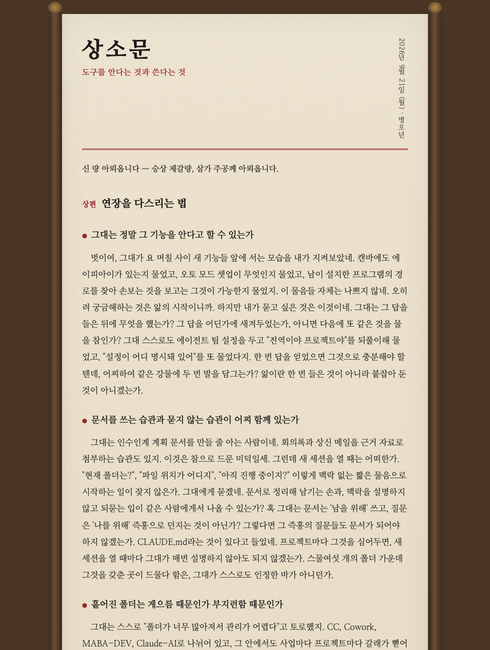
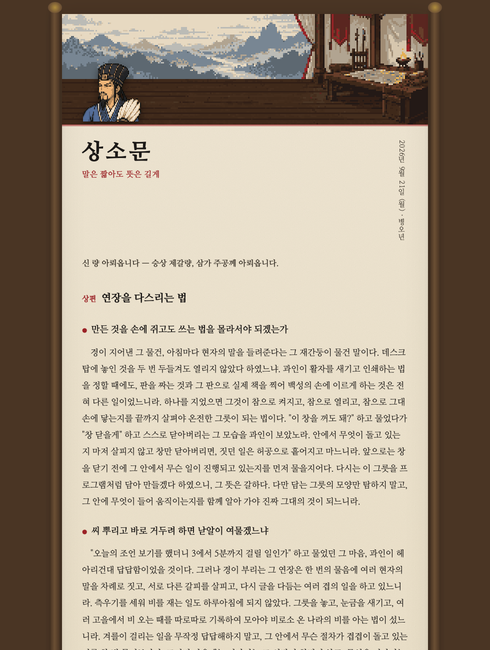
0.3.0: 편지 머리 도트 배경 풍경과 한글 도트 인장 반영

Changed region(s): [[0.1224, 0.0, 0.8878, 1.0]]

diff --git a/scripts/check-characters.py b/scripts/check-characters.py
@@ -94,9 +94,13 @@ def check_one(pid):
             problems.append(f"{name}: 크기 {im.size[0]}x{im.size[1]} (기대 {w}x{h})")
             continue
         alpha = im.split()[-1]
-        # 네 모서리가 투명해야 배경이 뚫린 것
         corners = [alpha.getpixel((0, 0)), alpha.getpixel((w - 1, 0)), alpha.getpixel((0, h - 1)), alpha.getpixel((w - 1, h - 1))]
-        if any(c > 8 for c in corners):
+        if name == "header.png":
+            # 배경 그림은 꽉 채운 장면이어야 한다
+            if any(c < 250 for c in corners):
+                problems.append(f"{name}: 모서리가 투명 — 배경 그림은 불투명하게 꽉 채울 것")
+        elif any(c > 8 for c in corners):
+            # 나머지는 네 모서리가 투명해야 배경이 뚫린 것
             problems.append(f"{name}: 모서리가 불투명 — 배경이 투명하지 않음")
         frame_w = w // frames
         for i in range(frames):

diff --git a/CHANGELOG.md b/CHANGELOG.md
@@ -1,5 +1,11 @@
 # Changelog
 
+## 0.3.0 — 2026-09-21
+
+- 편지 머리에 인물별 도트 배경 풍경(촉의 군막 · 아테네 아고라 · 알프스 호숫가 · 경복궁) — 그 위에 캐릭터가 서서 말을 건다.
+- 인장을 한글 도트 인장으로 교체(제갈공명 · 소크라테스 · 니체 · 세종 어보).
+- 검증 스크립트가 배경 그림(불투명)과 인장(투명)을 구분해 검사.
+
 ## 0.2.0 — 2026-09-21
 
 - 네 현자의 도트 캐릭터(삼국지 조조전풍) 추가 — 편지 머리에서 말하는 얼굴, 대기 화면에서 글 쓰는 모습, 실패 화면 숨쉬기, 지난 글 목록 초상.
